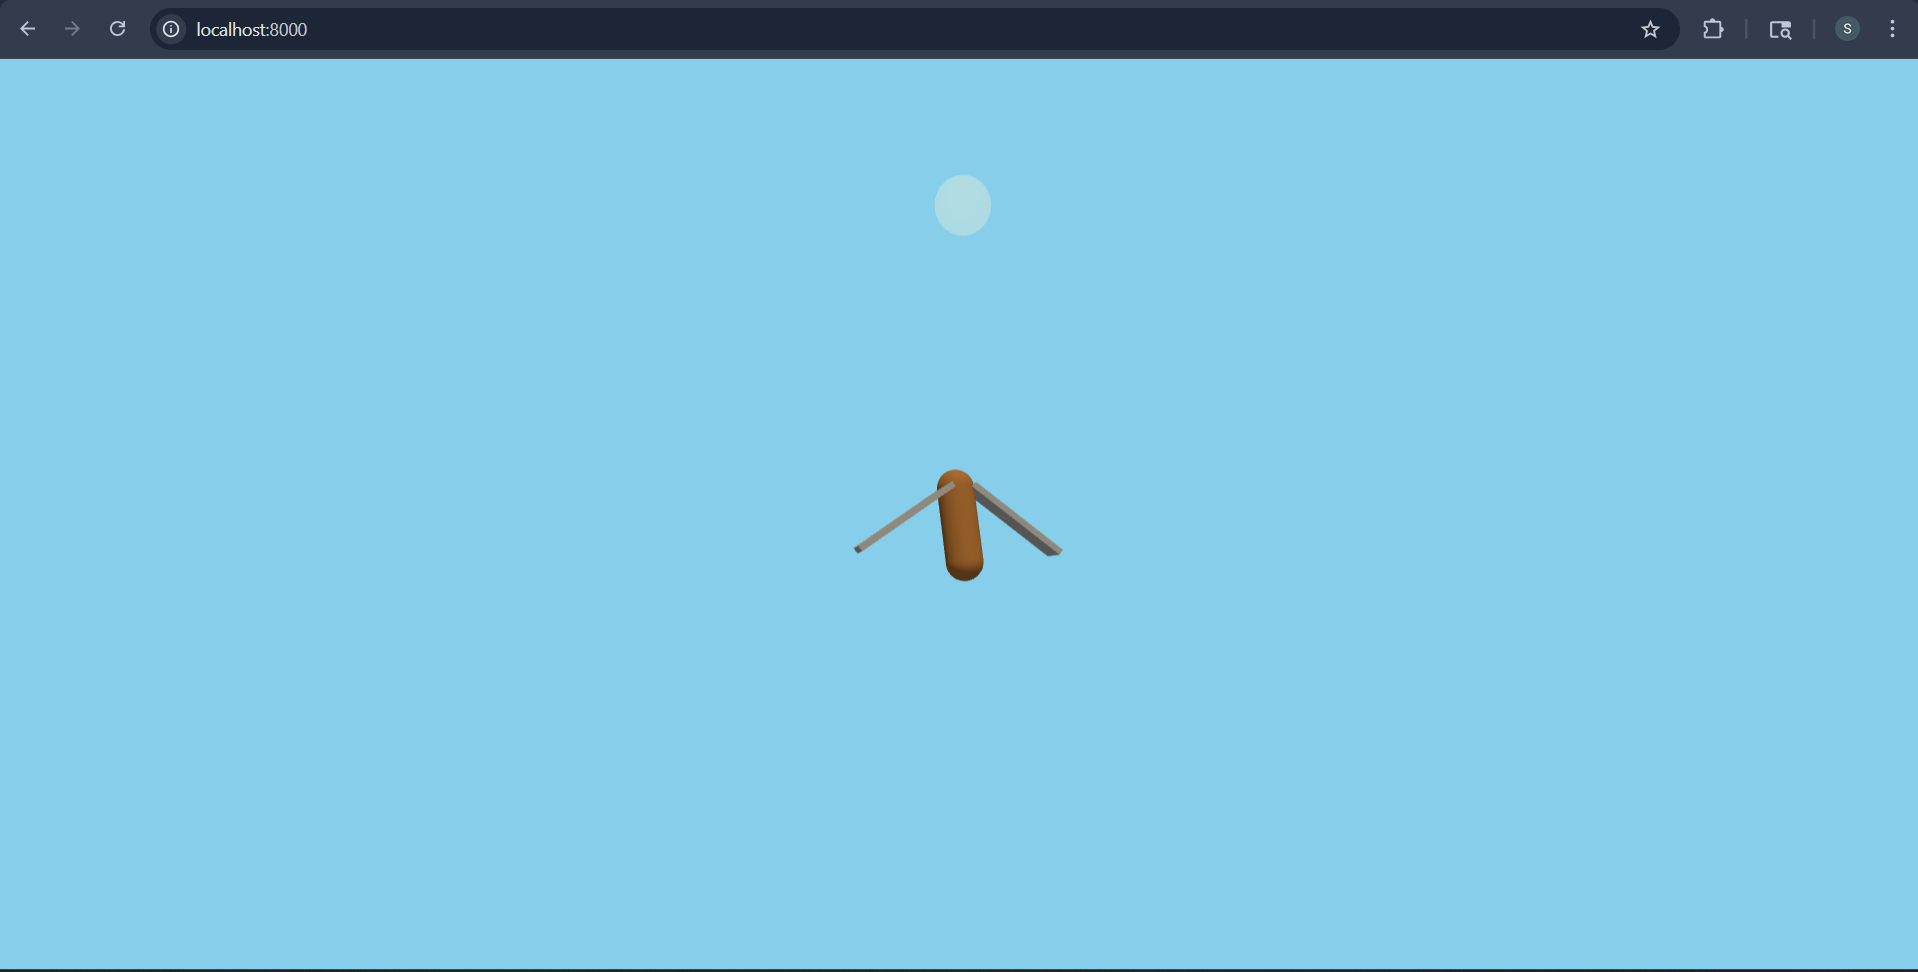
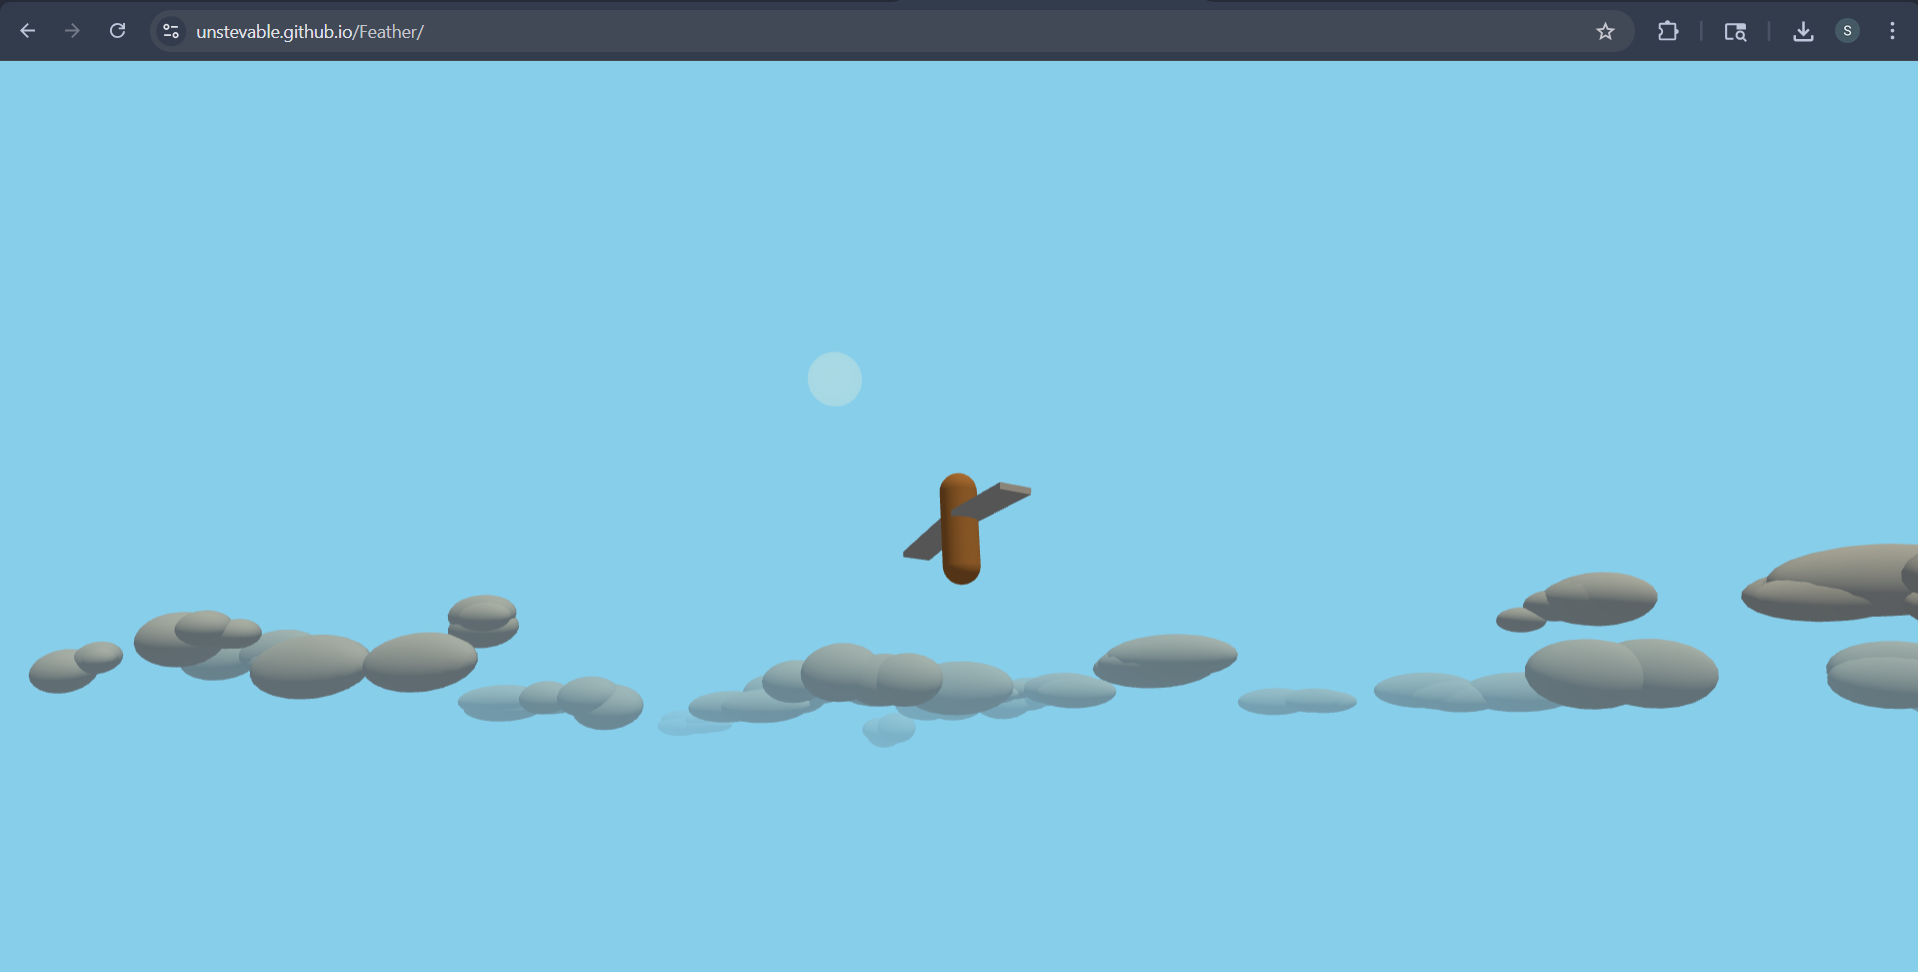
Slightly enhanced bird model

diff --git a/index.html b/index.html
@@ -181,56 +181,103 @@
 
                 //=============== bird geometry ===============
                 birdGroup = new THREE.Object3D();
-                const bodyGeo = new THREE.CapsuleGeometry(
-                    0.15, // radius of round part
-                    0.6, // length of cylindrical part
-                    8, // radial segments
-                    16 // height segments
-                );
 
-                const bodyMat = new THREE.MeshStandardMaterial({
-                    color: 0xffaa55, // warm orange
-                    metalness: 0.1, 
-                    roughness: 0.8
+                const birdBodyMat = new THREE.MeshStandardMaterial({
+                    color: 0xffc46b, // warm orange
+                    metalness: 0.0,
+                    roughness: 0.9,
+                    flatShading: true
                 });
 
-                birdBody = new THREE.Mesh(bodyGeo, bodyMat);
-                // slight tilt to the body to mimic a bird in flight
-                birdBody.rotation.z = 0.1;
+                const birdWingMat = new THREE.MeshStandardMaterial({
+                    color: 0xf5f5f5, // light gray 
+                    metalness: 0.0,
+                    roughness: 0.95,
+                    flatShading: true
+                });
+
+                const birdBeakMat = new THREE.MeshStandardMaterial({
+                    color: 0xffaa33, // brighter orange
+                    metalness: 0.0,
+                    roughness: 0.8,
+                    flatShading: true
+                });
+
+                const bodyGeo = new THREE.CylinderGeometry(
+                    0.12, // top radius
+                    0.18, // bottom radius
+                    0.65, // height
+                    6 // radial segments
+                );
+                birdBody = new THREE.Mesh(bodyGeo, birdBodyMat);
+
+                // slight tilt so it simulates flying forward
+                birdBody.rotation.z = 0.15;
                 birdBody.rotation.x = -0.1;
+
+                // move body a bit "back" so there is room for the head
+                birdBody.position.set(0, 0, 0);
                 birdGroup.add(birdBody);
+
+                // head
+                const headGeo = new THREE.SphereGeometry(
+                    0.14, // radius
+                    6, // width segments
+                    6 // height segments
+                );
+                const head = new THREE.Mesh(headGeo, birdBodyMat);
+                // place near front/top of body
+                head.position.set(0, 0.38, 0.12);
+                birdGroup.add(head);
+
+                // beak
+                const beakGeo = new THREE.ConeGeometry(
+                    0.06, // radius
+                    0.18, // height
+                    5
+                );
+                const beak = new THREE.Mesh(beakGeo, birdBeakMat);
+                // rotate cone so it points forward along +z
+                beak.rotation.x = Math.PI / 2;
+                beak.position.set(0, 0.36, 0.28);
+                birdGroup.add(beak);
+
+                // tail
+                const tailGeo = new THREE.ConeGeometry(
+                    0.08,
+                    0.18,
+                    4
+                );
+                const tail = new THREE.Mesh(tailGeo, birdBodyMat);
+                // point tail backwards along -z
+                tail.rotation.x = -Math.PI / 2;
+                tail.position.set(0, -0.25, -0.25);
+                birdGroup.add(tail);
 
                 // wings
                 const wingGeo = new THREE.BoxGeometry(
                     0.9, // width
-                    0.05, // thickness
-                    0.25 // depth (front to back)
+                    0.08, // thickness
+                    0.3 // depth (front to back)
                 );
 
-                const wingMat = new THREE.MeshStandardMaterial({
-                    color: 0xffffff, // white wings
-                    metalness: 0.05, 
-                    roughness: 0.9
-                });
-
                 // left wing
-                leftwing = new THREE.Mesh(wingGeo, wingMat);
+                leftwing = new THREE.Mesh(wingGeo, birdWingMat);
                 leftwing.position.set(-0.45, 0.05, 0); // position of wing so inner edge touches body
-                leftwing.rotation.z = Math.PI / 6; // slight upward angle so the wing forms an 'm'-like shape
+                leftwing.rotation.z = Math.PI / 4; // approx 45 degree upward angle
                 birdGroup.add(leftwing);
 
                 // right wing
-                rightwing = new THREE.Mesh(wingGeo, wingMat);
+                rightwing = new THREE.Mesh(wingGeo, birdWingMat);
                 rightwing.position.set(0.45, 0.05, 0); // mimic left wing
-                rightwing.rotation.z = -Math.PI / 6; // rotate opposite direction
+                rightwing.rotation.z = -Math.PI / 4; // rotate opposite direction
                 birdGroup.add(rightwing);
 
                 // final bird placement
                 birdGroup.position.set(0, 0, 0);
                 scene.add(birdGroup);
 
-                // keep the initial rotation of each wing so the animation can add/subtract
-                // the flap angle on top of the base angle
+                // store initial rotation of each wing for reference of "rest" pose 
                 baseLeftWingAngle = leftwing.rotation.z;
                 baseRightWingAngle = rightwing.rotation.z;
 
